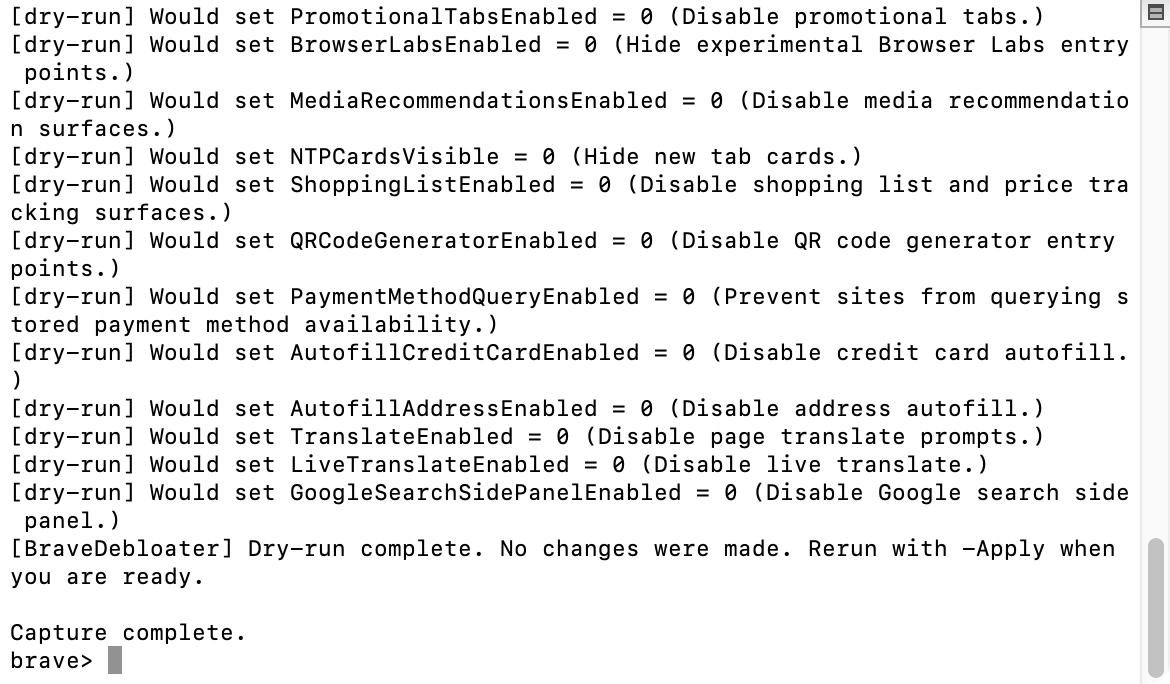
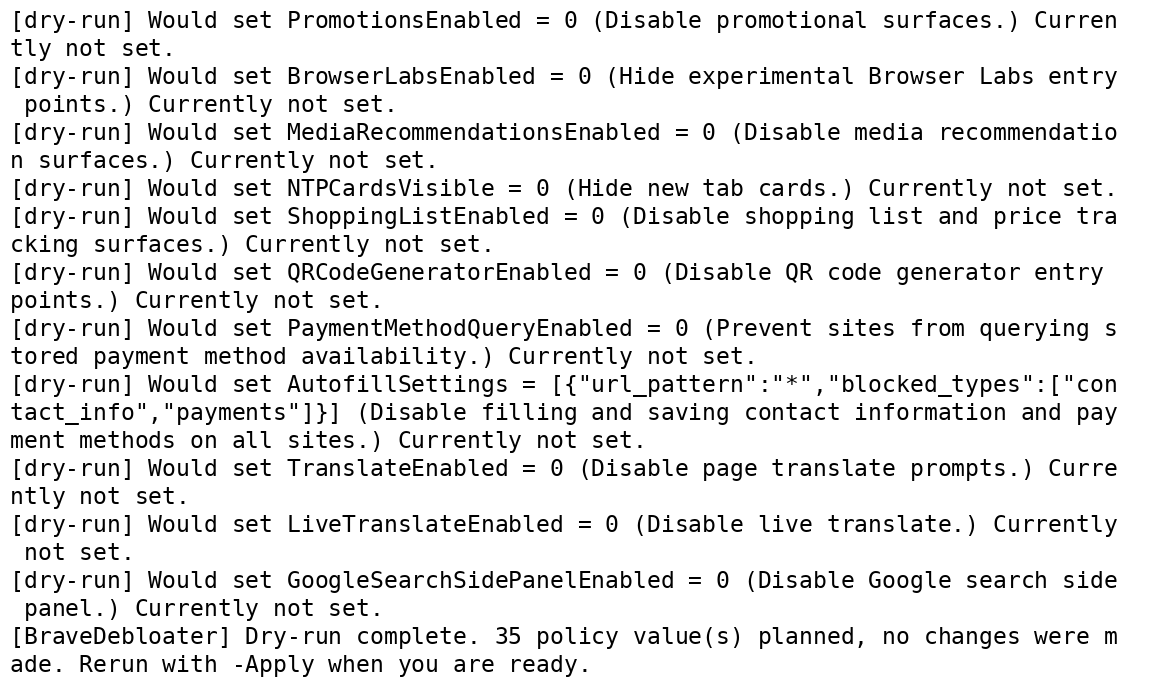
Address review notes: export caveat, install folder, template run output, fresh dry-run capture

Changed region(s): [[0.0, 0.0, 1.0, 1.0]]

diff --git a/CONTRIBUTING.md b/CONTRIBUTING.md
@@ -50,7 +50,7 @@ Every Monday, `.github/workflows/policy-templates.yml` downloads the latest temp
 .\scripts\Compare-PolicyTemplates.ps1 -TemplateZipPath .\policy_templates.zip
 ```
 
-Each run also writes the comparison and the manifest validation result to its run page. With **Settings > Actions > General > Allow GitHub Actions to create and approve pull requests** turned off, GitHub Actions cannot open the pull request, so the workflow still pushes `automation/policy-templates` and opens or updates one issue with the comparison and a link to open the pull request yourself. Later runs close that issue once a pull request from the branch is open, or once `main` records the latest templates. `scripts/Publish-PolicyTemplateUpdate.ps1` does the publishing.
+Each run also writes the comparison to its run page. When the templates changed, it adds the manifest validation result. With **Settings > Actions > General > Allow GitHub Actions to create and approve pull requests** turned off, GitHub Actions cannot open the pull request, so the workflow still pushes `automation/policy-templates` and opens or updates one issue with the comparison and a link to open the pull request yourself. Later runs close that issue once a pull request from the branch is open, or once `main` records the latest templates. `scripts/Publish-PolicyTemplateUpdate.ps1` does the publishing.
 
 A zip newer than the recorded template version passes with a warning, because Brave's `latest` download changes with every release. Add `-RequireVersionMatch` before a release so the recorded version is exact. The check also confirms each manifest value fits the ADMX definition (boolean, enum, integer, or text).
 

diff --git a/README.md b/README.md
@@ -131,7 +131,7 @@ Combine several with commas (`-OnlyFeature Rewards,Wallet,VPN,LeoAI`), or start 
 - It does not turn off Brave Shields, add Shield allowlists, or weaken Safe Browsing. The optional `-LockShields` add-on only enforces stricter Shields defaults.
 - It does not edit your hosts file, remove extensions, patch Brave binaries, or install anything into Brave.
 - It does not run hidden. Every policy it sets is listed in `brave://policy` with its value, and `-Doctor` reports the current state read-only.
-- It does not change Brave's policies or profile files without `-Apply`. A report (`-ReportPath`) or export (`-ExportPolicyPath`) is a separate file, and the script writes it in a preview too. Unless you use `-NoBackup` for a policy-only run, every apply run leaves a JSON backup that `-UndoFromBackup` can restore.
+- It does not change Brave's policies or profile files without `-Apply`. A report (`-ReportPath`) or export (`-ExportPolicyPath`) writes the file you name in a preview too, so do not name Brave's own policy file as the export. Unless you use `-NoBackup` for a policy-only run, every apply run leaves a JSON backup that `-UndoFromBackup` can restore.
 
 ## Screenshots
 

diff --git a/docs/install.md b/docs/install.md
@@ -8,7 +8,7 @@ One line in PowerShell (Windows PowerShell 5.1 or PowerShell 7 on Windows, macOS
 irm https://raw.githubusercontent.com/osfv/BraveDebloater/main/install.ps1 | iex
 ```
 
-It downloads the latest release zip and `SHA256SUMS.txt`, refuses to continue if the hash does not match, extracts to `%LOCALAPPDATA%\Programs\BraveDebloater` (Windows) or `~/.local/share/BraveDebloater`, and prints the preview command. Running it again upgrades in place and keeps `backups/`. It does not touch Brave. To pick a version or folder:
+It downloads the latest release zip and `SHA256SUMS.txt`, refuses to continue if the hash does not match, extracts to `%LOCALAPPDATA%\Programs\BraveDebloater` on Windows, or to `$XDG_DATA_HOME/BraveDebloater` on macOS and Linux (`~/.local/share/BraveDebloater` when that variable is not set), and prints the folder it used with the preview command. Running it again upgrades in place and keeps `backups/`. It does not touch Brave. To pick a version or folder:
 
 ```powershell
 & ([scriptblock]::Create((irm https://raw.githubusercontent.com/osfv/BraveDebloater/main/install.ps1))) -Version 0.9.2 -Destination C:\Tools\BraveDebloater

diff --git a/docs/usage.md b/docs/usage.md
@@ -2,7 +2,7 @@
 
 Detailed reference for `Invoke-BraveDebloat.ps1`, with examples. New here? Start with the [README](../README.md).
 
-Every command below leaves Brave's policies and profile files alone unless it includes `-Apply`. Commands with `-ReportPath` or `-ExportPolicyPath` write that file in a preview too; add `-WhatIf` to skip it.
+Every command below leaves Brave's policies and profile files alone unless it includes `-Apply`. Commands with `-ReportPath` or `-ExportPolicyPath` write that file in a preview too; add `-WhatIf` to skip it. An export overwrites the file you name, so do not name Brave's own policy file.
 
 ## Contents
 
